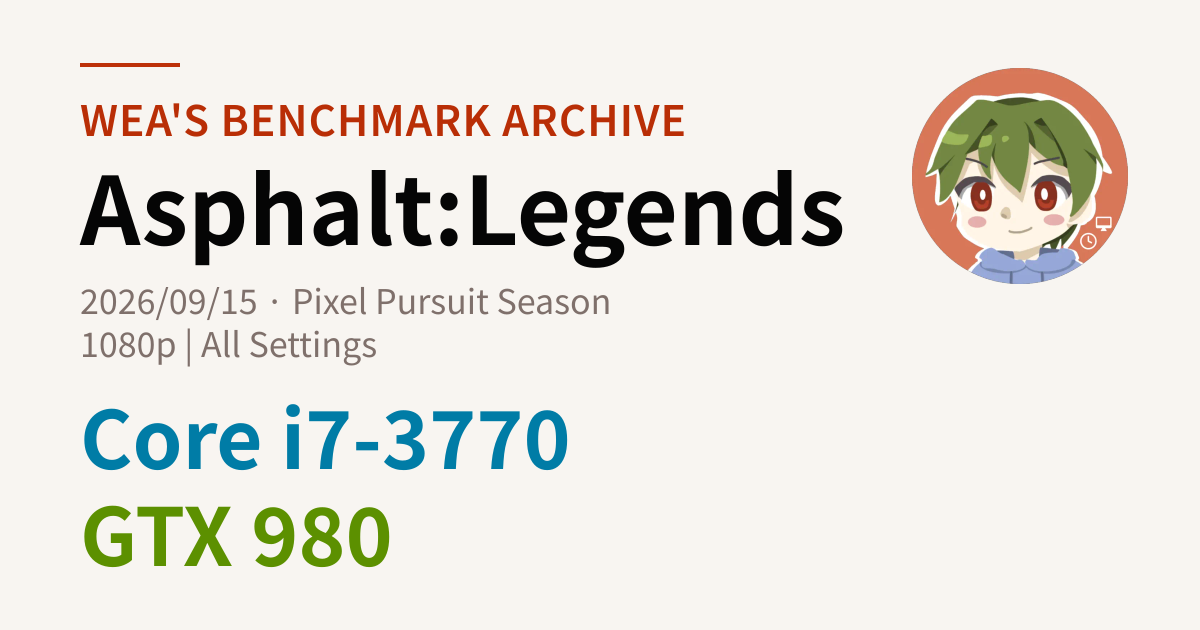
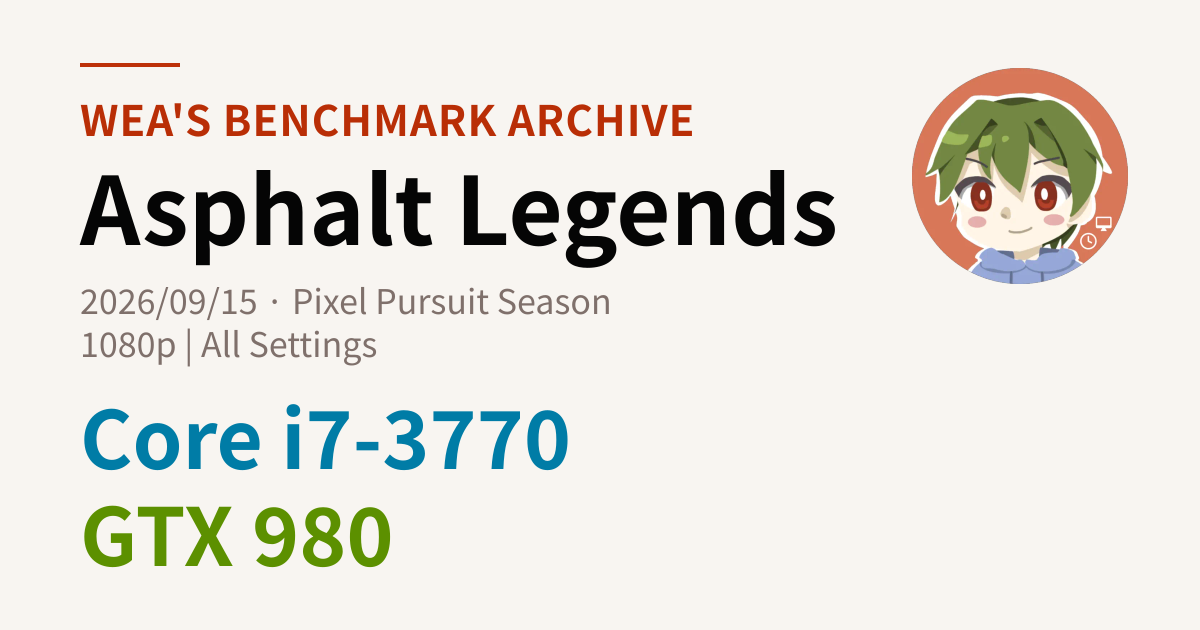
chore: update generated benchmark files

diff --git a/benchmarks/260915_asphalt-legends_gtx980_i7-3770.html b/benchmarks/260915_asphalt-legends_gtx980_i7-3770.html
@@ -2,23 +2,23 @@
 <html lang="ja">
 <head>
   <meta charset="utf-8"><meta name="viewport" content="width=device-width, initial-scale=1"><meta name="robots" content="index,follow"><meta name="theme-color" content="#bc3005">
-  <title>Asphalt:Legends benchmark — Core i7-3770 + GTX 980 | Wea&#39;s Benchmark Archive</title>
-  <meta name="description" content="Asphalt:Legends benchmark results on Core i7-3770 and GTX 980, including graphics settings, average FPS, and 1% low FPS.">
+  <title>Asphalt Legends benchmark — Core i7-3770 + GTX 980 | Wea&#39;s Benchmark Archive</title>
+  <meta name="description" content="Asphalt Legends benchmark results on Core i7-3770 and GTX 980, including graphics settings, average FPS, and 1% low FPS.">
   <link rel="canonical" href="https://benchmark.wea017.net/benchmarks/260915_asphalt-legends_gtx980_i7-3770.html">
   <meta property="og:type" content="article">
   <meta property="og:locale" content="en_US">
   <meta property="og:site_name" content="Wea's Benchmark Archive">
-  <meta property="og:title" content="Asphalt:Legends benchmark — Core i7-3770 + GTX 980 | Wea&#39;s Benchmark Archive">
-  <meta property="og:description" content="Asphalt:Legends benchmark results on Core i7-3770 and GTX 980, including graphics settings, average FPS, and 1% low FPS.">
+  <meta property="og:title" content="Asphalt Legends benchmark — Core i7-3770 + GTX 980 | Wea&#39;s Benchmark Archive">
+  <meta property="og:description" content="Asphalt Legends benchmark results on Core i7-3770 and GTX 980, including graphics settings, average FPS, and 1% low FPS.">
   <meta property="og:url" content="https://benchmark.wea017.net/benchmarks/260915_asphalt-legends_gtx980_i7-3770.html">
   <meta property="og:image" content="https://benchmark.wea017.net/assets/ogp/260915_asphalt-legends_gtx980_i7-3770.png">
   <meta property="og:image:type" content="image/png">
   <meta property="og:image:width" content="1200">
   <meta property="og:image:height" content="630">
-  <meta property="og:image:alt" content="Asphalt:Legends benchmark result: Core i7-3770, GTX 980">
+  <meta property="og:image:alt" content="Asphalt Legends benchmark result: Core i7-3770, GTX 980">
   <meta name="twitter:card" content="summary_large_image">
-  <meta name="twitter:title" content="Asphalt:Legends benchmark — Core i7-3770 + GTX 980 | Wea&#39;s Benchmark Archive">
-  <meta name="twitter:description" content="Asphalt:Legends benchmark results on Core i7-3770 and GTX 980, including graphics settings, average FPS, and 1% low FPS.">
+  <meta name="twitter:title" content="Asphalt Legends benchmark — Core i7-3770 + GTX 980 | Wea&#39;s Benchmark Archive">
+  <meta name="twitter:description" content="Asphalt Legends benchmark results on Core i7-3770 and GTX 980, including graphics settings, average FPS, and 1% low FPS.">
   <meta name="twitter:image" content="https://benchmark.wea017.net/assets/ogp/260915_asphalt-legends_gtx980_i7-3770.png">
   <link rel="icon" type="image/webp" href="../assets/WeaBenchmark_600px.webp">
   <link rel="preconnect" href="https://fonts.googleapis.com">
